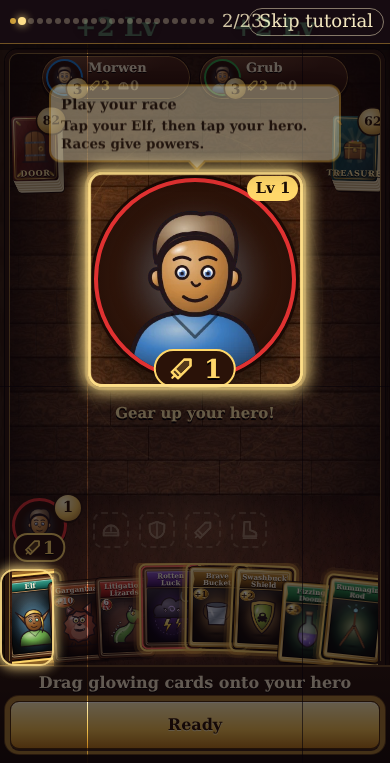
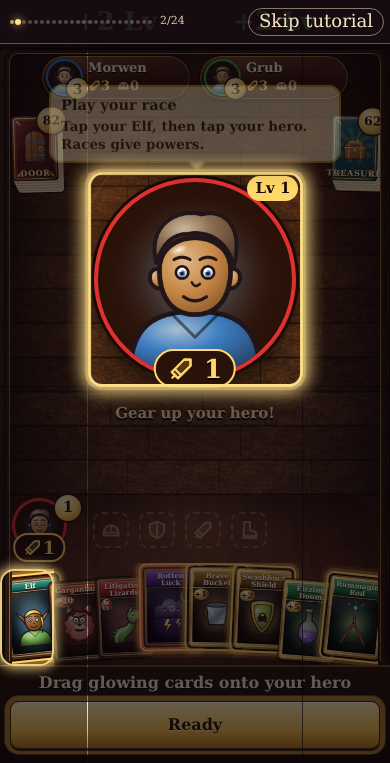
Doorkick Dungeon tutorial: rivals step, drag test, keyboard-kick guard, wider checks

diff --git a/games-src/munch/tutor.js b/games-src/munch/tutor.js
@@ -24,7 +24,7 @@ const TUT_GAME='doorkick-dungeon';
 let TUTG=false;
 const tutOn=()=>typeof GXT!=='undefined'&&GXT.active()&&!!(G&&G.tut);
 const tutFirst=()=>{try{return !localStorage.getItem('dkd_offer')&&!localStorage.getItem('dkd_learned')&&!localStorage.getItem('dkd_bf')&&!localStorage.getItem(SAVE)}catch(e){return true}};
-const tutBtn=cls=>typeof GXT==='undefined'?'':GXT.menuHTML({game:TUT_GAME,first:tutFirst(),cls:cls,launch:()=>tutStart()});
+const tutBtn=cls=>typeof GXT==='undefined'||(G&&G.mode==='net'&&!G.winner)?'':GXT.menuHTML({game:TUT_GAME,first:tutFirst(),cls:cls,launch:()=>tutStart()});
 // ---------------------------------------------------------------- the fixed deal
 const TUT_SEED=20261008;
 const kdef=id=>G.C[id];                         // a card's key ('elf', 'imp', ...)
@@ -83,8 +83,8 @@ const tpick=key=>()=>myId(key);
 // ---------------------------------------------------------------- the steps
 function tutSteps(){
   return [
- {id:'goal',title:'Race to level 10',say:'Be first to reach level 10. The final level can only come from killing a monster.',target:tq('.mine .lv','.mine .top'),wait:null,
-   ready:()=>G.phase==='setup'&&tmine()},
+ {id:'goal',title:'Race to level 10',say:'Be first to reach level 10. The final level can only come from killing a monster.',target:tq('.bfbig','.mine .top'),wait:null,
+   ready:()=>G.phase==='setup'&&tmine()&&!!document.querySelector('.bfbig')},
  {id:'elf',title:'Play your race',say:'Tap your Elf, then tap your hero. Races give powers.',target:tq('.bfbig'),also:()=>tcard('elf'),pick:tpick('elf'),
    wait:{type:'drag',match:a=>a.what==='drop'&&kdef(a.id)==='elf'},from:()=>tcard('elf'),ready:()=>G.phase==='setup'&&tmine()&&BF.pick==null&&!!tcard('elf')&&!!document.querySelector('.bfbig')},
  {id:'powers',title:'Races and classes',say:'Your Elf runs better. Classes add powers too: Warriors win ties, Wizards flee, Thieves stab, Clerics fight undead.',target:tq('.mine .gear'),wait:null,
@@ -110,12 +110,14 @@ function tutSteps(){
    ready:()=>G.phase==='post'&&!G.cb&&!!G.out&&!G.out.won&&tclear()},
  {id:'end1',title:'End your turn',say:'You may wear or sell more now. Then tap End turn.',target:tq(mv('end')),wait:{type:'tap',match:a=>a.what==='move'&&a.m.act==='end'},
    ready:()=>G.phase==='post'&&tmine()},
- {id:'curse',title:'Curse a rival',say:'Computer heroes play by the same rules. Before Morwen kicks, curse her: tap Rotten Luck, then Morwen.',target:tchip(1),also:()=>tcard('hexlvl'),pick:tpick('hexlvl'),
+ {id:'curse',title:'Curse a rival',say:'Before Morwen kicks, you may curse her. Anyone can curse anyone. Tap Rotten Luck, then Morwen.',target:tchip(1),also:()=>tcard('hexlvl'),pick:tpick('hexlvl'),
    wait:{type:'drag',match:a=>a.what==='drop'&&kdef(a.id)==='hexlvl'&&a.z==='p1'},from:()=>tcard('hexlvl'),
    ready:()=>G.phase==='window'&&G.active===1&&tmine()&&BF.pick==null&&!!tcard('hexlvl')&&!!tchip(1)()},
  {id:'meddle',title:'Meddle in her fight',say:'Morwen fights alone. Anyone may interfere! Tap Gargantuan, then her monster: +10 for it.',target:tq('.arena .row.mons .mon'),also:()=>tcard('gargantuan'),pick:tpick('gargantuan'),
    wait:{type:'drag',match:a=>a.what==='drop'&&kdef(a.id)==='gargantuan'},from:()=>tcard('gargantuan'),
    ready:()=>!!G.cb&&G.cb.who===1&&G.cb.stage==='others'&&tmine()&&BF.pick==null&&!!tcard('gargantuan')&&!!document.querySelector('.arena .row.mons .mon')},
+ {id:'rivals',title:'The computer plays too',say:'Morwen and Grub follow the same rules: they kick doors, fight, run, curse and ask for help.',target:tq('#phopps','#app .opps'),wait:null,
+   ready:()=>G.active===2&&!G.winner},
  {id:'kick2',title:'Your turn again',say:'Kick the door. Not every door hides a monster.',target:tq('.bfdoor'),wait:{type:'tap',match:a=>a.what==='kick'},
    ready:()=>G.phase==='main'&&G.active===0&&G.turn>1&&tmine()&&!!document.querySelector('.bfdoor')&&(tutTop('halfling'),true)},
  {id:'trouble',title:'Look for trouble',say:'No monster. You may loot a free card, or fight one from your hand: tap Lizards, then the door.',target:tq('.arena'),also:()=>tcard('lizards'),pick:tpick('lizards'),
@@ -132,15 +134,15 @@ function tutSteps(){
  {id:'charity',title:'Too many cards',say:'You may keep 5 cards. Give the extras to the lowest-level hero: tap the Halfling, then Morwen.',target:tchip(1),also:()=>tcard('halfling'),pick:tpick('halfling'),
    wait:{type:'drag',match:a=>a.what==='drop'&&kdef(a.id)==='halfling'&&a.z==='p1'},from:()=>tcard('halfling'),
    ready:()=>G.phase==='charity'&&tmine()&&BF.pick==null&&!!tcard('halfling')&&!!tchip(1)()},
- {id:'finale',onEnter:()=>{UI.pause=true},title:'You know the rules',say:()=>'First to level 10 wins, and the last level needs a monster kill. You are level '+P(0).lvl+'. Go and win!',target:tq('.mine .lv','.mine .top'),wait:null,
+ {id:'finale',onEnter:()=>{UI.pause=true},title:'You know the rules',say:()=>'First to level 10 wins, and the last level needs a monster kill. You are level '+P(0).lvl+'. Go and win!',target:tq('.mine .top'),wait:null,
    ready:()=>G.active!==0&&!G.winner}
   ]}
 // ---------------------------------------------------------------- the kit hooks
 function tutSetup(){try{GX.close()}catch(e){}
   TUTG=true;clearTimeout(aiTimer);aiTimer=null;UI.pass=null;UI.lastSeat=-1;UI.menu=null;UI.zoom=null;UI.sell=null;UI.cmp=null;UI.pause=false;
   BF.pick=null;BF.ask=null;BF.kicking=false;UI.spd0=UI.speed;UI.speed=Math.max(1.5,UI.speed||1);
-  const lvl0=UI.lvl,n0=UI.n;UI.lvl='normal';DEFSEED=TUT_SEED;
-  try{newGame('F',3)}finally{UI.lvl=lvl0;UI.n=n0;DEFSEED=null}
+  const lvl0=UI.lvl,n0=UI.n,nm0=UI.names;UI.lvl='normal';UI.names=null;DEFSEED=TUT_SEED;
+  try{newGame('F',3)}finally{UI.lvl=lvl0;UI.n=n0;UI.names=nm0;DEFSEED=null}
   G.tut=1;G.learn=false;G.rng=TUT_SEED;
   G.active=G.first=0;G.setupOrd=[0,1,2];G.setupI=0;G.log=[];G.ln=0;lg(-1,'The tutorial dungeon opens: you, Morwen and Grub.');
   tutDeal();tutStackTreasure();tutTop('hatmuncher');
@@ -158,12 +160,12 @@ function tutStart(o){if(typeof GXT==='undefined')return;o=o&&o.prologue?o:null;c
     onExit:()=>tutLeave()})}
 // ---------------------------------------------------------------- the game tells the kit what the player does (before it is applied)
 (function(){const o=uiAct;uiAct=function(m){
-  if(tutOn()&&!UI._tutIn&&m.act!=='kick'){if(!GXT.act({type:'tap',what:'move',m})){render();return}if(m.act==='run')tutRoll(1)}
+  if(tutOn()&&!UI._tutIn){if(m.act==='kick'){if(!UI._tutKick){render();return}UI._tutKick=0}else{if(!GXT.act({type:'tap',what:'move',m})){render();return}if(m.act==='run')tutRoll(1)}}
   return o.apply(this,arguments)}})();
 (function(){const o=bfDrop;bfDrop=function(id,z,at){
   if(tutOn()&&!UI._tutIn){if(!GXT.act({type:'tap',what:'drop',id,z}))return false;UI._tutIn=1;try{return o(id,z,at)}finally{UI._tutIn=0}}
   return o(id,z,at)}})();
-(function(){const o=bfKick;bfKick=function(){if(tutOn()&&!BF.kicking&&!GXT.act({type:'tap',what:'kick'}))return;return o.apply(this,arguments)}})();
+(function(){const o=bfKick;bfKick=function(){if(tutOn()&&!BF.kicking){if(!GXT.act({type:'tap',what:'kick'}))return;UI._tutKick=1}return o.apply(this,arguments)}})();
 function tutBlock(e){e.stopPropagation();e.stopImmediatePropagation();e.preventDefault()}
 window.addEventListener('click',e=>{const t=e.target;if(!t||!t.closest)return;
   // Story: the first tap runs the tutorial as Chapter 0

diff --git a/games-src/munch/tutor-test.js b/games-src/munch/tutor-test.js
@@ -41,6 +41,18 @@ async function run(browser,W,H,mode){const tag=W+'x'+H+' '+mode;const t0=Date.no
     await tapSel('#modal [data-start="F"]');await sleep(400);await tapSel('#tutoffer [data-tutoffer=learn]');await sleep(900);
     const o4=await p.evaluate(()=>({run:GXT.running(),tut:!!G&&!!G.tut,i:GXT.state().i}));if(!o4.run||!o4.tut||o4.i!==0)note(tag,'"Learn in 5 minutes" did not start the tutorial '+JSON.stringify(o4));
     totals.runs++;console.log(tag,'done');await ctx.close();return}
+  if(mode==='drag'){
+    // the same step can be answered with a mouse drag: card -> hero (pointer events), and a drag dropped on the wrong place does nothing
+    await p.evaluate(()=>{G=null;render();tutStart()});await sleep(800);await p.evaluate(()=>{UI.speed=4});
+    for(let k=0;k<60;k++){const st=await p.evaluate(()=>GXT.state());if(st.id==='goal'&&st.shown){const nx=await p.evaluate(()=>{const b=document.querySelector('.gxt-next').getBoundingClientRect();return [b.left+b.width/2,b.top+b.height/2]});await p.touchscreen.tap(nx[0],nx[1])}
+      if(st.id==='elf'&&st.shown)break;await sleep(150)}
+    const st=await p.evaluate(()=>GXT.state());if(st.id!=='elf'||!st.shown){note(tag,'drag: elf step not reached '+JSON.stringify({id:st.id,ph:st.phase}));await ctx.close();return}
+    const card=st.holes[1],hero=st.holes[0];
+    const drag=async(x1,y1,x2,y2)=>{await p.mouse.move(x1,y1);await p.mouse.down();for(let i=1;i<=12;i++){await p.mouse.move(x1+(x2-x1)*i/12,y1+(y2-y1)*i/12);await sleep(16)}await p.mouse.up();await sleep(500)};
+    await drag(card.cx,card.cy,hero.cx,hero.cy-hero.height*0.35);                       // wait: this ends ON the hero (inside its spotlight)
+    const a1=await p.evaluate(()=>({i:GXT.state().i,id:GXT.state().id,race:P(0).race.length}));
+    if(a1.id==='elf'||!a1.race)note(tag,'dragging the Elf onto the hero did not play it '+JSON.stringify(a1));
+    totals.runs++;console.log(tag,'done');await ctx.close();return}
   // first visit: the title shows "New here? Learn in 5 minutes" as the first option
   const first=await p.evaluate(()=>{G=null;render();const b=document.querySelector('#modal .dlg.start button');return b?{t:b.textContent,gxt:b.hasAttribute('data-gxt-open')}:null});
   if(!first||!first.gxt||!/New here/.test(first.t))note(tag,'first menu option is not "New here? Learn in 5 minutes": '+JSON.stringify(first));
@@ -74,9 +86,10 @@ async function run(browser,W,H,mode){const tag=W+'x'+H+' '+mode;const t0=Date.no
         hasData:[...document.querySelectorAll('.gxt-bub,.gxt-cell,.gxt-top,.gxt-ring')].every(e=>e.hasAttribute('data-help'))}});
     const s=info.s,id=s.id;
     totals.steps++;
-    if(wc(info.say)>20)note(tag,id+': say over 20 words ('+wc(info.say)+')');
+    if(process.env.ALLSHOTS&&W===390&&mode==='clean'){await sleep(700);await p.screenshot({path:process.env.ALLSHOTS+'/s'+String(s.i).padStart(2,'0')+'_'+id+'.png'})}
+    if(wc(s.say)>20)note(tag,id+': say over 20 words ('+wc(s.say)+')');
     if(info.title&&wc(info.title)>4)note(tag,id+': title over 4 words');
-    if(!info.say)note(tag,id+': empty text');
+    if(!s.say)note(tag,id+': empty text');
     if(info.hs)note(tag,id+': page scrolls sideways');
     if(!info.hasData)note(tag,id+': a tutorial element without data-help');
     if(info.dots!==s.n)note(tag,id+': progress dots '+info.dots+' vs steps '+s.n);
@@ -206,7 +219,7 @@ const once=new Set();const guardOnce=id=>{const k=id+'|'+(guardOnce.run||'');if(
 
 (async()=>{const b=await PW.chromium.launch({args:['--no-sandbox']});
   const jobs=[];for(const [W,H] of SIZES){jobs.push([W,H,'clean']);}
-  const [W0,H0]=SIZES[0];jobs.push([W0,H0,'rotate']);jobs.push([W0,H0,'leave']);jobs.push([W0,H0,'skip']);jobs.push([W0,H0,'offer']);jobs.push([W0,H0,'story']);jobs.push([375,553,'story']);
+  const [W0,H0]=SIZES[0];jobs.push([W0,H0,'rotate']);jobs.push([W0,H0,'leave']);jobs.push([W0,H0,'skip']);jobs.push([W0,H0,'offer']);jobs.push([W0,H0,'drag']);jobs.push([W0,H0,'story']);jobs.push([375,553,'story']);
   const MODES=(process.argv[3]||'').split(',').filter(Boolean);
   for(const j of jobs){if(MODES.length&&!MODES.includes(j[2]))continue;guardOnce.run=j.join('x');try{await run(b,...j)}catch(e){note(j.join(' '),'CRASH '+String(e.message).split('\n')[0])}}
   await b.close();
